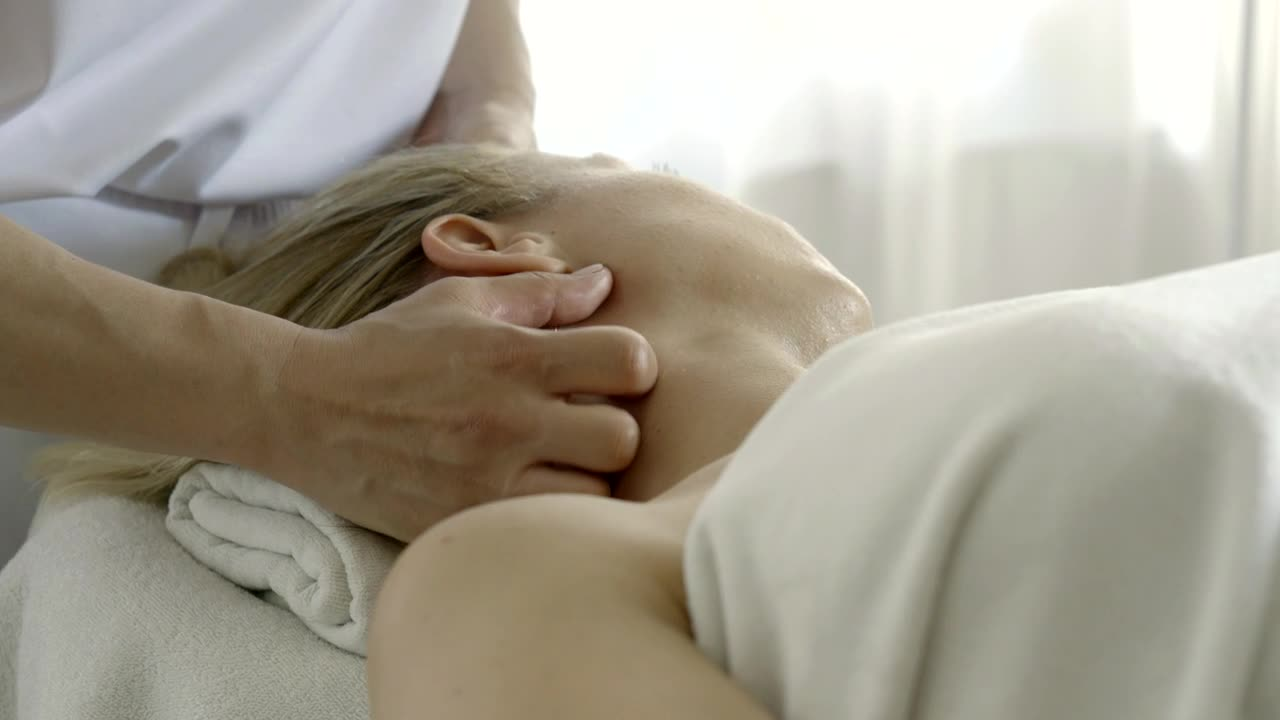
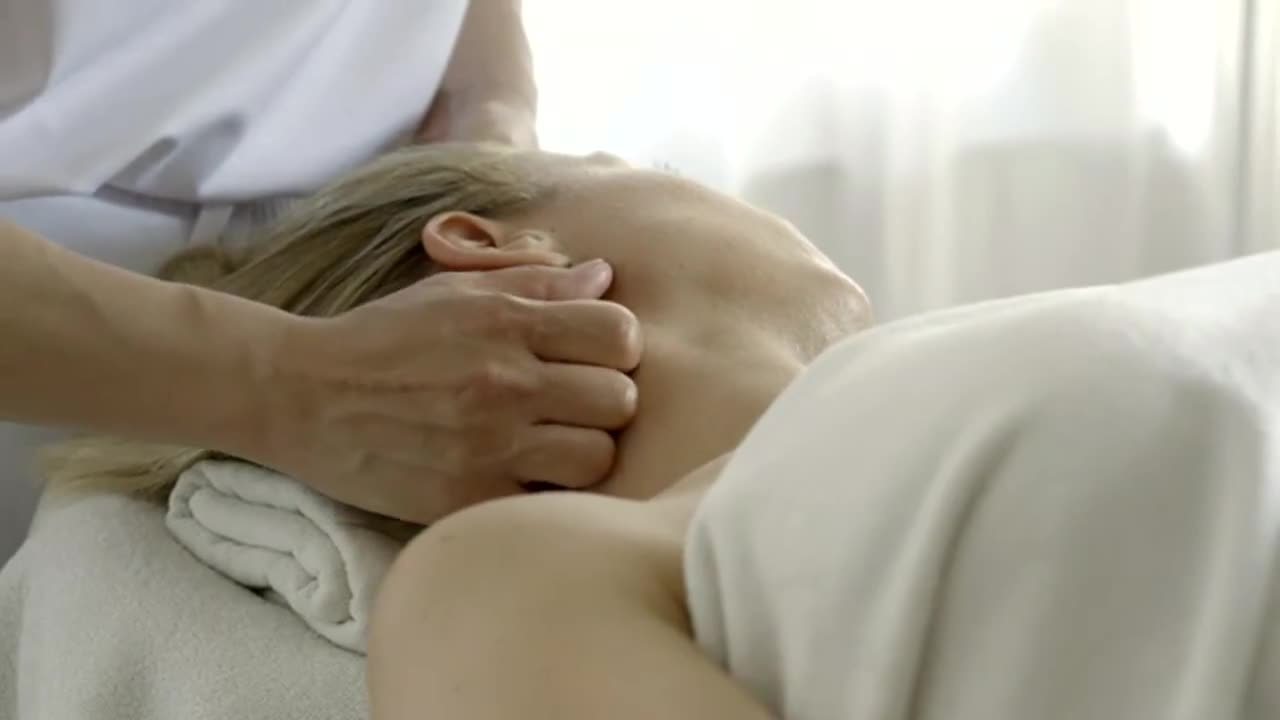
Video section: hover-to-play slow-motion clips, drop window washing
- Remove the window-washing clip and poster
- Re-encode lawn-care, landscaping and back-rub as muted, looping,
  slow-motion clips (22-28s), audio stripped, web-optimized — far
  smaller than before (2.4M/1M/0.8M vs up to 12M)
- Clips now play on hover (desktop) or tap (touch) instead of needing
  the controls bar; preload=none so they only download on interaction
- Respect prefers-reduced-motion; add a 'Hover to play' hint badge

Claude-Session: https://claude.ai/code/session_018d7JjnCQks9penQoHAT8Hz

diff --git a/index.html b/index.html
@@ -91,9 +91,11 @@ nav a:hover{color:var(--primary)}
 
 /* ---------- Videos ---------- */
 .video-grid{display:grid;grid-template-columns:repeat(auto-fit,minmax(280px,1fr));gap:18px}
-.video-card{border-radius:var(--radius);overflow:hidden;box-shadow:var(--shadow);background:#000;position:relative}
+.video-card{border-radius:var(--radius);overflow:hidden;box-shadow:var(--shadow);background:#000;position:relative;cursor:pointer}
 .video-card video{width:100%;aspect-ratio:16/9;object-fit:cover;display:block}
 .video-card figcaption{background:var(--dark);color:#fff;padding:10px 16px;font-weight:600;font-size:.92rem}
+.video-hint{position:absolute;top:10px;left:10px;background:rgba(0,0,0,.6);color:#fff;font-size:.74rem;font-weight:600;padding:5px 10px;border-radius:999px;pointer-events:none;transition:opacity .2s;backdrop-filter:blur(2px)}
+.video-card.playing .video-hint{opacity:0}
 
 /* ---------- Testimonials ---------- */
 .quote-grid{display:grid;grid-template-columns:repeat(auto-fit,minmax(260px,1fr));gap:22px}
@@ -373,23 +375,22 @@ body.layout-boxed>section{width:100%}
     <div class="section-head">
       <span class="eyebrow">See us in action</span>
       <h2>Watch the work</h2>
-      <p>Short clips of the kind of care your property gets.</p>
+      <p>Hover over a clip to watch it play.</p>
     </div>
     <div class="video-grid">
       <figure class="video-card">
-        <video controls muted playsinline preload="metadata" poster="assets/video/lawn-care-poster.jpg" src="assets/video/lawn-care.mp4"></video>
+        <video muted loop playsinline preload="none" poster="assets/video/lawn-care-poster.jpg" src="assets/video/lawn-care.mp4"></video>
+        <span class="video-hint">▶ Hover to play</span>
         <figcaption>Lawn care — trimming &amp; edging</figcaption>
       </figure>
       <figure class="video-card">
-        <video controls muted playsinline preload="metadata" poster="assets/video/landscaping-poster.jpg" src="assets/video/landscaping.mp4"></video>
+        <video muted loop playsinline preload="none" poster="assets/video/landscaping-poster.jpg" src="assets/video/landscaping.mp4"></video>
+        <span class="video-hint">▶ Hover to play</span>
         <figcaption>Landscaping — planting garden beds</figcaption>
       </figure>
       <figure class="video-card">
-        <video controls muted playsinline preload="metadata" poster="assets/video/window-washing-poster.jpg" src="assets/video/window-washing.mp4"></video>
-        <figcaption>Window washing — streak-free shine</figcaption>
-      </figure>
-      <figure class="video-card">
-        <video controls muted playsinline preload="metadata" poster="assets/video/back-rub-poster.jpg" src="assets/video/back-rub.mp4"></video>
+        <video muted loop playsinline preload="none" poster="assets/video/back-rub-poster.jpg" src="assets/video/back-rub.mp4"></video>
+        <span class="video-hint">▶ Hover to play</span>
         <figcaption>Back rubs — the post-yard-work treat</figcaption>
       </figure>
     </div>
@@ -647,6 +648,38 @@ function labBuild(){
   labApply();
 }
 labBuild();
+
+/* =====================================================================
+   HOVER-TO-PLAY VIDEOS
+   Muted, looping clips that play on hover (desktop) or tap (touch).
+   The clip only downloads once the visitor interacts (preload="none").
+   ===================================================================== */
+(function(){
+  const reduce = window.matchMedia("(prefers-reduced-motion: reduce)").matches;
+  const canHover = window.matchMedia("(hover: hover)").matches;
+  document.querySelectorAll(".video-card").forEach(card => {
+    const v = card.querySelector("video");
+    if(!v) return;
+    const start = () => {
+      card.classList.add("playing");
+      const p = v.play();
+      if(p) p.catch(() => {});
+    };
+    const stop = () => {
+      card.classList.remove("playing");
+      v.pause();
+      v.currentTime = 0;
+    };
+    if(canHover && !reduce){
+      card.addEventListener("mouseenter", start);
+      card.addEventListener("mouseleave", stop);
+    }
+    // Tap toggles on touch devices (and works as a fallback everywhere)
+    card.addEventListener("click", () => {
+      if(v.paused) start(); else stop();
+    });
+  });
+})();
 
 /* Graceful fallback if a stock photo fails to load: swap in a branded
    SVG placeholder so the gallery never shows a broken image. */